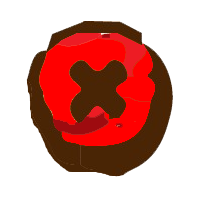
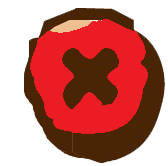
Exit Screen, Buttons Fixed & Added Glow

diff --git a/Static_GUI/out/production/Static_GUI/sample/buttons.css b/Static_GUI/out/production/Static_GUI/sample/buttons.css
@@ -17,3 +17,4 @@
     -fx-effect: dropshadow( three-pass-box , rgba(0,0,0,0.4) , 5, 0.0 , 0 , 1 );
     -fx-text-fill: #395306;
 }
+.pane_exit { -fx-background-color: transparent; }

diff --git a/Static_GUI/src/sample/buttons.css b/Static_GUI/src/sample/buttons.css
@@ -17,3 +17,4 @@
     -fx-effect: dropshadow( three-pass-box , rgba(0,0,0,0.4) , 5, 0.0 , 0 , 1 );
     -fx-text-fill: #395306;
 }
+.pane_exit { -fx-background-color: transparent; }

diff --git a/Static_GUI/src/sample/Controller.java b/Static_GUI/src/sample/Controller.java
@@ -5,6 +5,7 @@ import javafx.fxml.FXMLLoader;
 import javafx.scene.Scene;
 import javafx.scene.image.Image;
 import javafx.scene.image.ImageView;
+import javafx.scene.layout.AnchorPane;
 import javafx.scene.layout.Pane;
 import javafx.scene.paint.Color;
 import javafx.stage.Stage;
@@ -13,6 +14,7 @@ import java.io.IOException;
 
 
 public class Controller {
+    public static Stage Exit_Stage =new Stage(StageStyle.TRANSPARENT);;
     public ImageView Play;
     public ImageView Load;
     public ImageView Exit;
@@ -102,12 +104,13 @@ public class Controller {
     }
     @FXML
     public void exit() throws IOException {
-        Stage Exit_Stage;
-        Exit_Stage = new Stage(StageStyle.TRANSPARENT);
+
+
         Exit_Stage.setTitle("Exit Prompt");
+
         FXMLLoader fxmlloader =  new FXMLLoader();
         fxmlloader.setLocation(Game_GUI.class.getResource("Exit.fxml"));
-        Pane Exit_Pane = (Pane) fxmlloader.load();
+        AnchorPane Exit_Pane = (AnchorPane) fxmlloader.load();
         Exit_Stage.setScene(new Scene(Exit_Pane, Color.TRANSPARENT));
         Exit_Stage.showAndWait();
     }

diff --git a/Static_GUI/src/sample/Exit_Controller.java b/Static_GUI/src/sample/Exit_Controller.java
@@ -13,7 +13,7 @@ public class Exit_Controller {
 
     Image ok = new Image("sample/Plants vs Zombies Assets/Exit_screen_ok_normal.png");
     Image cross = new Image("sample/Plants vs Zombies Assets/exitscreen_cross_normal.png");
-    Image okpressed = new Image("sample/Plants vs Zombies Assets/exitscreen_ok.png");
+    Image okpressed = new Image("sample/Plants vs Zombies Assets/Exit_screen_ok.png");
     Image crosspressed = new Image("sample/Plants vs Zombies Assets/exitscreen_cross.png");
 
 
@@ -41,7 +41,7 @@ public class Exit_Controller {
     @FXML
     public void playgoback()
     {
-
+        Controller.Exit_Stage.close();
     }
     @FXML
     public void exit()
